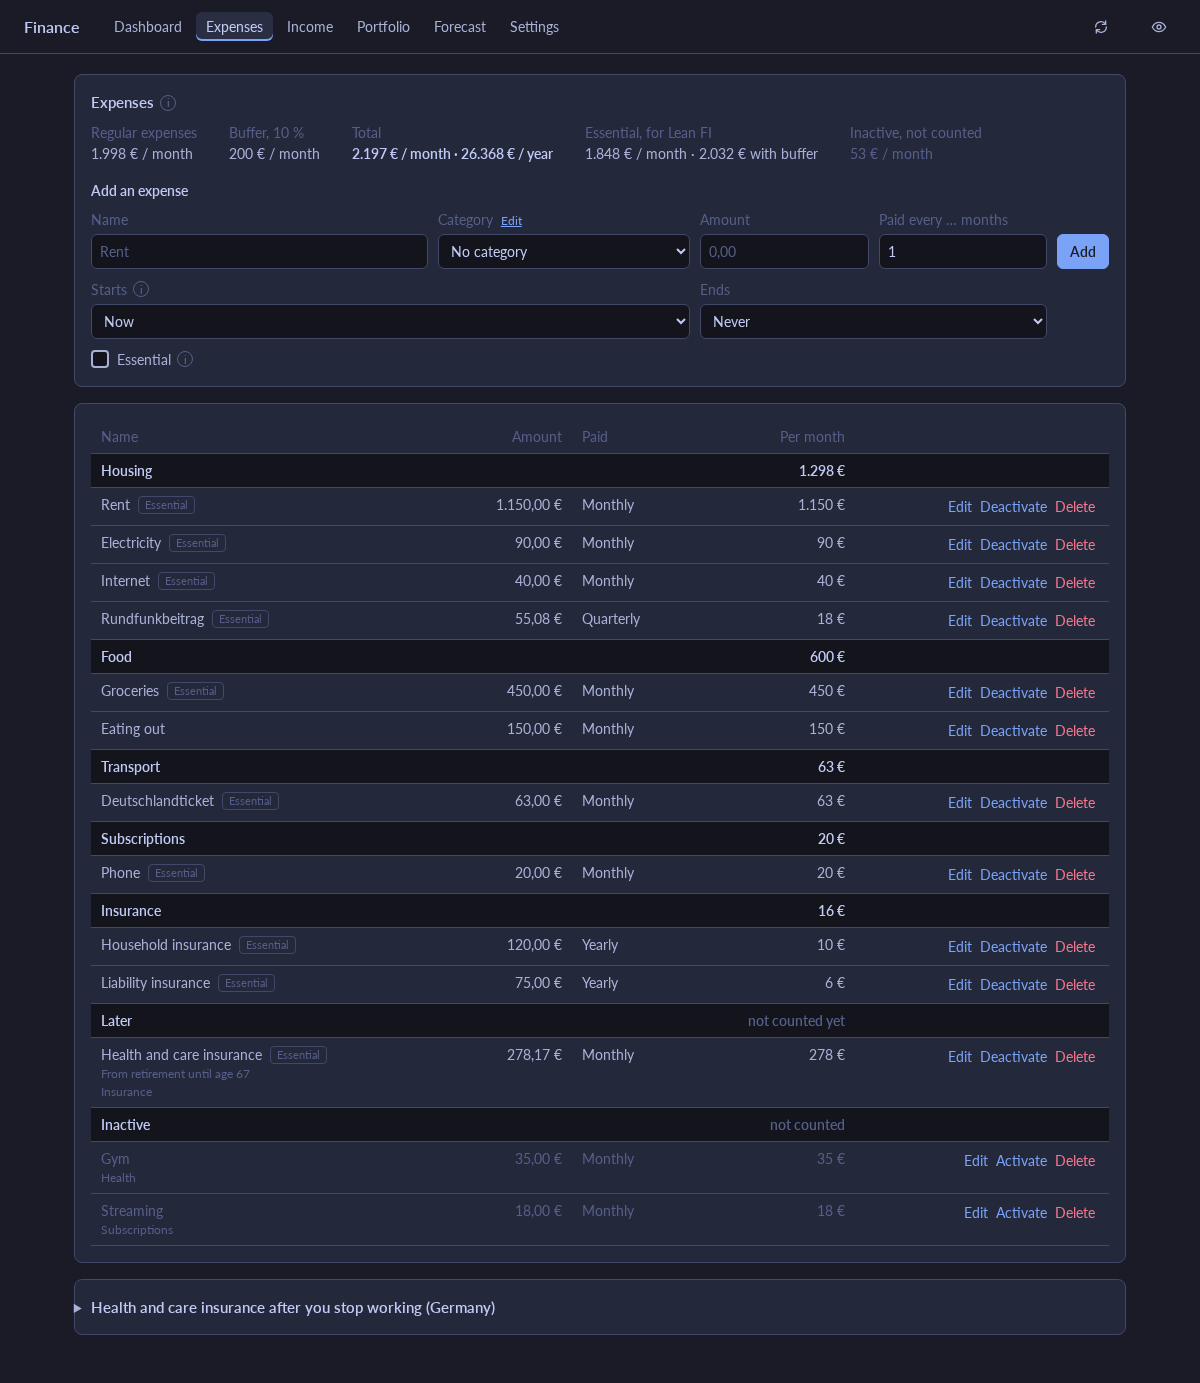
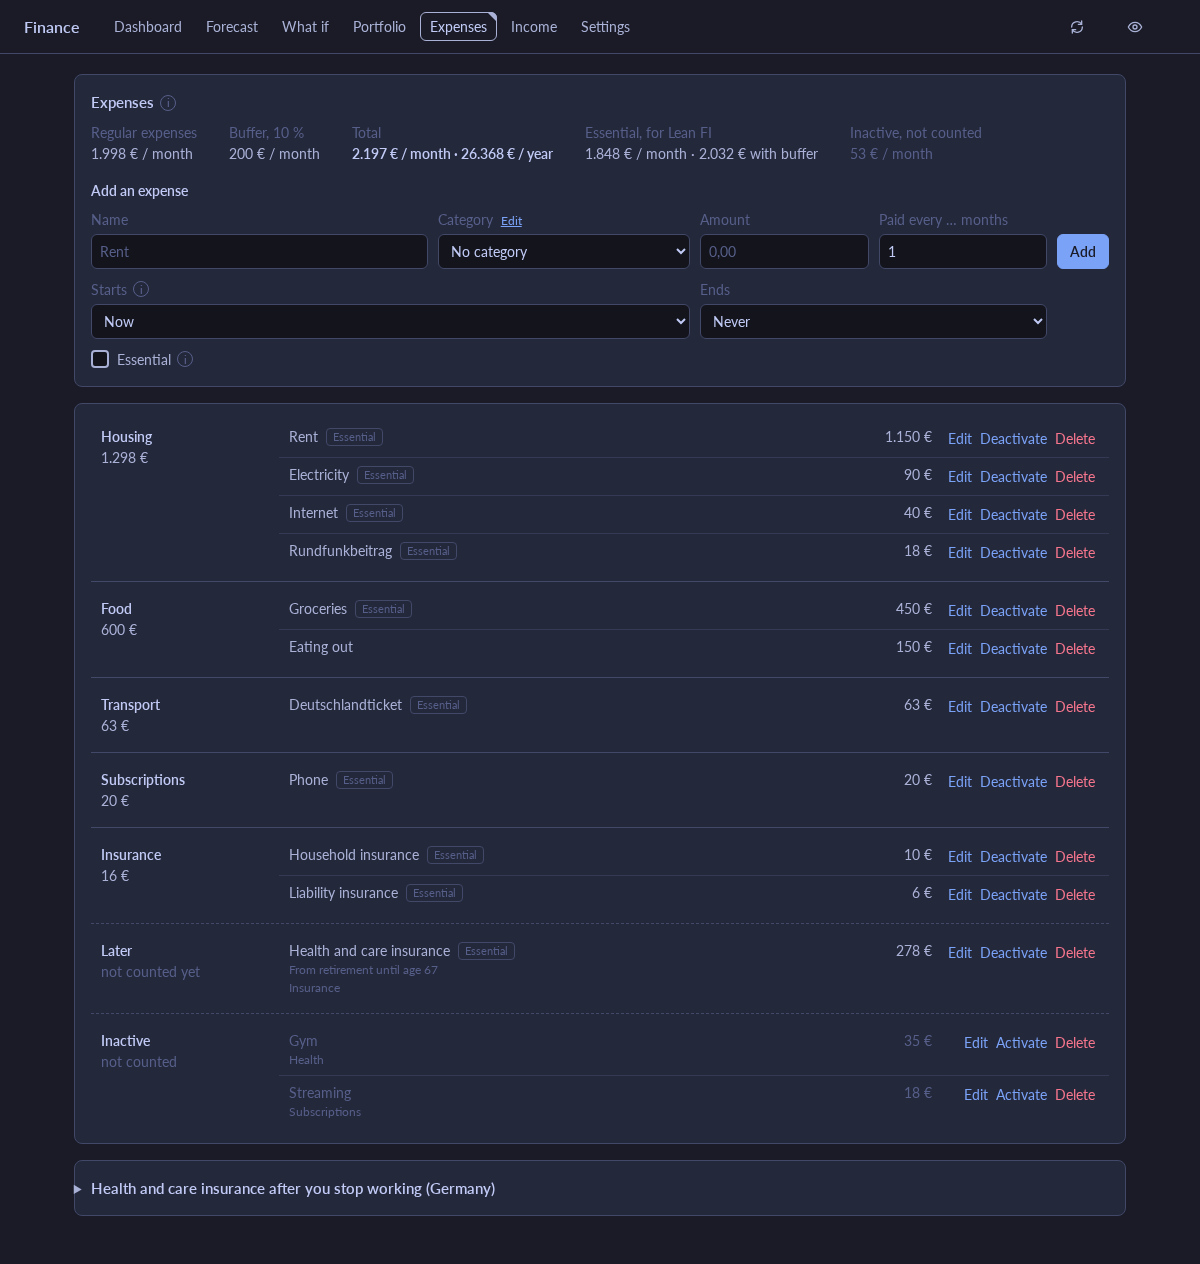
Show each category in a column of its own in the expense and income lists
Categories were table rows like the items, only darker, so the list was
hard to read. Each category's name and total now sit in a column left of
its items, and the list shows what each item counts a month: the amount
and how often it is paid stay in the form. On a narrow window the
categories head their items instead.

diff --git a/app/style.css b/app/style.css
@@ -1868,19 +1868,8 @@ tbody th {
   color: var(--fg-strong);
 }
 
-tr.group th,
-tr.group td {
-  color: var(--fg-strong);
-  font-weight: 600;
-  background: var(--sunken);
-}
-
 tr.editing > * {
   background: var(--selection);
-}
-
-tr.inactive td {
-  color: var(--fg-muted);
 }
 
 td.actions {
@@ -1897,6 +1886,114 @@ th .sub {
 .notes {
   margin: 0;
   padding-left: 20px;
+}
+
+/* ---- the expense and income list: each group's name and total in a
+   column of their own, left of its items, so that a group never looks like
+   an item. One grid for the whole list, so that amounts and actions line up
+   from group to group. */
+
+.item-list {
+  display: grid;
+  grid-template-columns: 11rem minmax(0, 1fr) auto auto;
+  column-gap: 12px;
+}
+
+.item-group {
+  grid-column: 1 / -1;
+  display: grid;
+  grid-template-columns: subgrid;
+  padding-block: 10px;
+  border-top: 1px solid var(--border);
+}
+
+.item-group:first-child {
+  padding-top: 0;
+  border-top: none;
+}
+
+.item-group:last-child {
+  padding-bottom: 0;
+}
+
+/* Later, Ended and Inactive: not counted this month. */
+.item-group.apart {
+  border-top-style: dashed;
+}
+
+.item-group-head {
+  padding: 6px 0 6px 10px;
+  overflow-wrap: anywhere;
+}
+
+.item-group-head h3 {
+  margin: 0;
+}
+
+.item-rows {
+  grid-column: 2 / -1;
+  display: grid;
+  grid-template-columns: subgrid;
+  align-content: start;
+  margin: 0;
+  padding: 0;
+  list-style: none;
+}
+
+.item-rows > li {
+  grid-column: 1 / -1;
+  display: grid;
+  grid-template-columns: subgrid;
+  padding: 6px 10px;
+}
+
+.item-rows > li + li {
+  border-top: 1px solid color-mix(in srgb, var(--border) 55%, transparent);
+}
+
+.item-rows > li.editing {
+  background: var(--selection);
+}
+
+.item-rows > li.inactive {
+  color: var(--fg-muted);
+}
+
+.item-rows .sub {
+  color: var(--fg-muted);
+  font-size: 12px;
+}
+
+.item-rows .actions {
+  text-align: right;
+  white-space: nowrap;
+}
+
+/* Too narrow for the column: each group's name and total head its items,
+   and the actions go under each item. */
+@media (max-width: 720px) {
+  .item-list {
+    grid-template-columns: minmax(0, 1fr) auto;
+  }
+
+  .item-group-head {
+    grid-column: 1 / -1;
+    display: flex;
+    justify-content: space-between;
+    gap: 12px;
+    padding-right: 10px;
+    border-bottom: 1px solid var(--fg-muted);
+  }
+
+  .item-rows {
+    grid-column: 1 / -1;
+  }
+
+  .item-rows .actions {
+    grid-column: 1 / -1;
+    margin-left: -4px;
+    text-align: left;
+  }
 }
 
 table.entry input {
